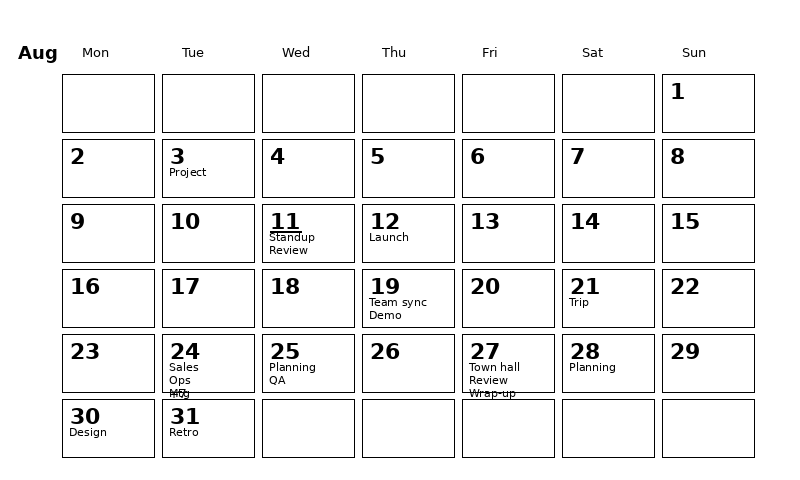
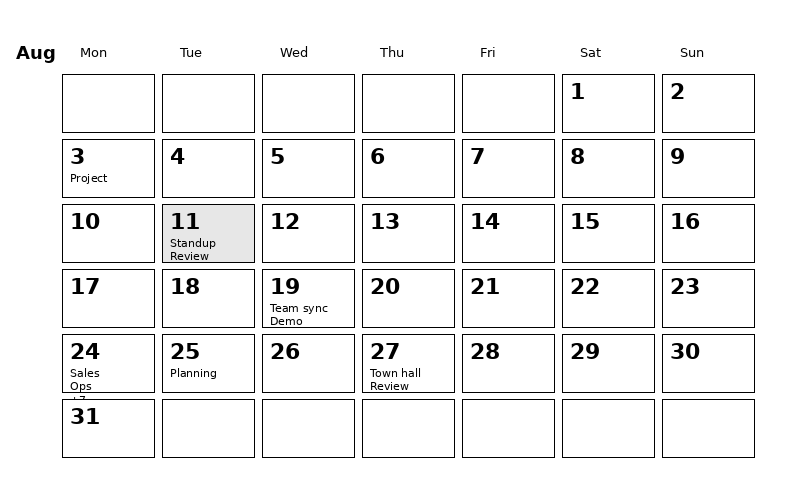
Apply remaining changes

diff --git a/idl-calendar.js b/idl-calendar.js
@@ -103,7 +103,6 @@ export class IdlCalendar extends HTMLElement {
         }
         .day[aria-current="date"] .day-number {
           font-weight: bold;
-          text-decoration: underline;
         }
         :host([display-mode="trmnl"]) ha-card { width: 800px; }
       </style>

diff --git a/README.md b/README.md
@@ -57,8 +57,8 @@ weekday. Each non-interactive date cell contains its day number and a list of
 event names. There is no month toolbar or secondary event panel. The full
 month/year remains available as an accessible label.
 No hours, “All day”/“Ongoing” labels, or calendar names are displayed.
-The current day cell uses a light gray background with the day number bold and
-underlined so it remains visible from a distance.
+The current day cell uses a light gray background and a bold day number so it
+remains visible from a distance without adding extra decoration.
 
 Multi-day and overnight events appear on every day they overlap; an event ending
 at midnight does not appear on the following day. Events retain chronological
